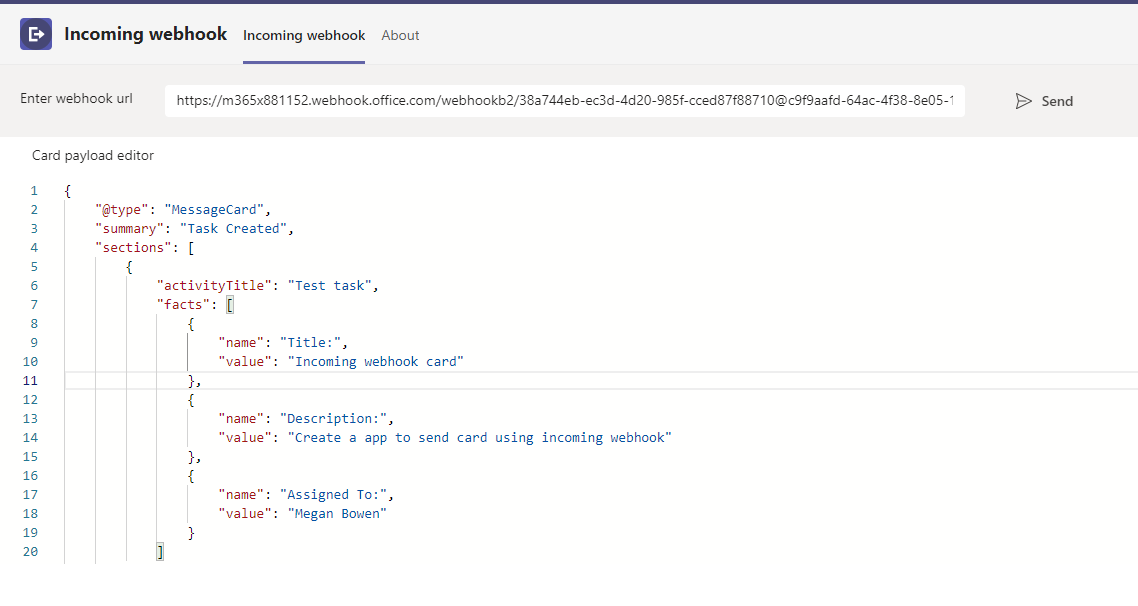
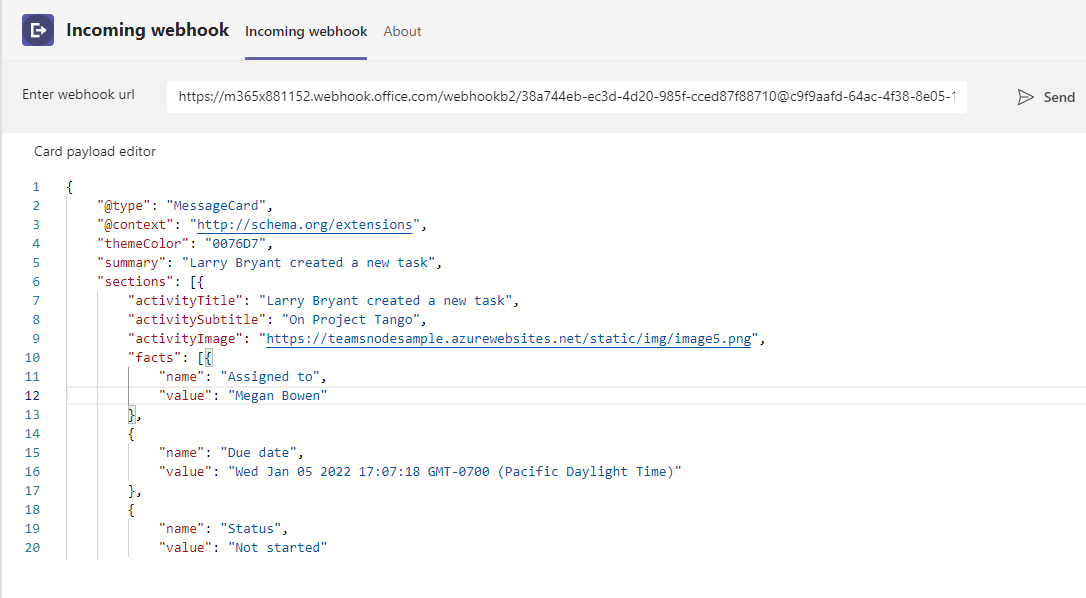
Adding post action

diff --git a/samples/incoming-webhook/nodejs/ClientApp/src/components/card-constant.ts b/samples/incoming-webhook/nodejs/ClientApp/src/components/card-constant.ts
@@ -14,7 +14,7 @@ export const DEFAULT_CARD_PAYLOAD = `{
         },
         {
             "name": "Due date",
-            "value": "Mon May 01 2017 17:07:18 GMT-0700 (Pacific Daylight Time)"
+            "value": "Wed Jan 05 2022 17:07:18 GMT-0700 (Pacific Daylight Time)"
         },
         {
             "name": "Status",
@@ -35,7 +35,8 @@ export const DEFAULT_CARD_PAYLOAD = `{
         "actions": [{
             "@type": "HttpPOST",
             "name": "Add comment",
-            "body": "",
+            "body": "{\\"comment\\":\\"{{comment.value}}\\"}",
+            "bodyContentType": "application/json",
             "target": "${baseUrl}/api/save"
         }]
     }, 

diff --git a/samples/incoming-webhook/nodejs/api/server/index.js b/samples/incoming-webhook/nodejs/api/server/index.js
@@ -24,6 +24,7 @@ server.post('/api/Send', (req, res) => {
 });
 
 server.post('/api/save', (req, res) => {
+    var response = JSON.stringify(req.body);
     var card = {
         "type": "message",
         "attachments": [
@@ -37,7 +38,7 @@ server.post('/api/save', (req, res) => {
                     "body": [
                         {
                             "type": "TextBlock",
-                            "text": "Submitted response:"
+                            "text": "Submitted response:"+ response
                         }
                     ]
                 }

diff --git a/samples/incoming-webhook/nodejs/README.md b/samples/incoming-webhook/nodejs/README.md
@@ -21,6 +21,11 @@ This sample illustrates usage of incoming webhook.
 
 ![card by webhook](Images/cardByWebhook.png)
 
+- HttpPOST action response
+- Note: To see Post action please set target as `https://{{base-url}}/api/save`
+
+![post action response](Images/postActionResponse.png)
+
 ## Prerequisites
 
 - [NodeJS](https://nodejs.org/en/)
